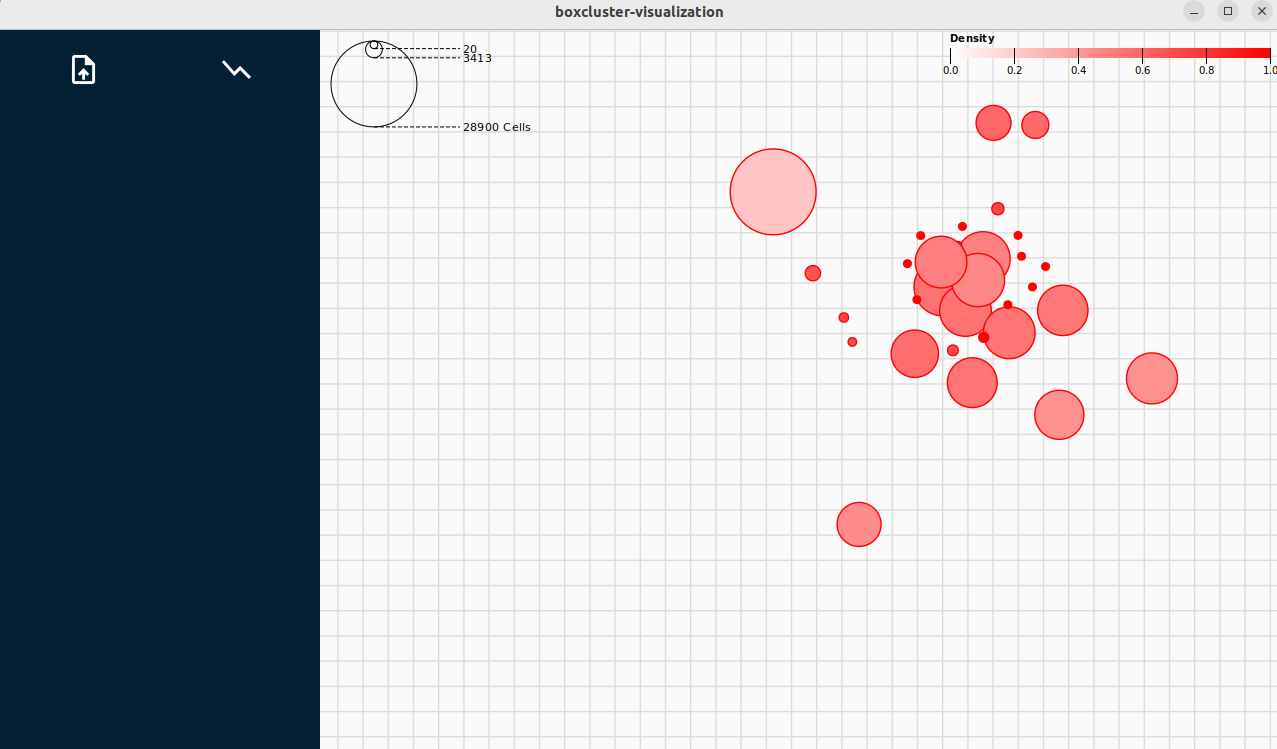
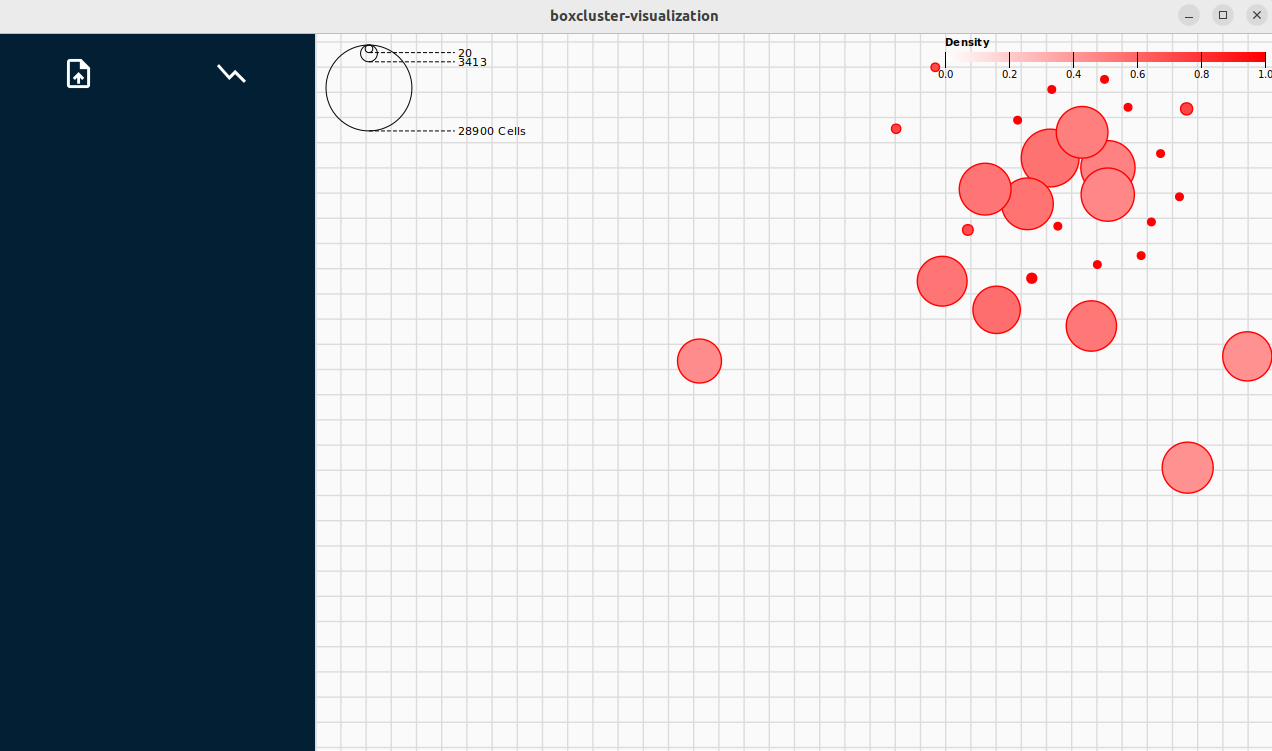
Changing scaling algorithm

diff --git a/src/app/components/visualization/svg-feature.module.ts b/src/app/components/visualization/svg-feature.module.ts
@@ -233,21 +233,22 @@ export class SvgFeatureModule {
   }
 
   private scalingFunction(datapoints: Array<DataPoint>) {
-    let x_max_module = Math.max(...datapoints.map(datapoint => Math.abs(datapoint.x)));
-    let y_max_module = Math.max(...datapoints.map(datapoint => Math.abs(datapoint.y)));
-    let max_module = Math.max(x_max_module, y_max_module);
+    // let x_max_module = Math.max(...datapoints.map(datapoint => Math.abs(datapoint.x)));
+    // let y_max_module = Math.max(...datapoints.map(datapoint => Math.abs(datapoint.y)));
+    // let max_module = Math.max(x_max_module, y_max_module);
 
     let scaled_datapoints: Array<DataPoint> = datapoints;
     let screen_coverage = 0.5;
+    // let screen_coverage = 0.8;
     datapoints.forEach(datapoint => {
-        let result_x = datapoint.x / x_max_module;
-        let result_y = datapoint.y / y_max_module;
+      //   let result_x = datapoint.x / x_max_module;
+      //   let result_y = datapoint.y / y_max_module;
 
-      if (isNaN(result_x) || !isFinite(result_x)) { result_x = datapoint.x; }
-      if (isNaN(result_y) || !isFinite(result_y)) { result_y = datapoint.y; }
+      // if (isNaN(result_x) || !isFinite(result_x)) { result_x = datapoint.x; }
+      // if (isNaN(result_y) || !isFinite(result_y)) { result_y = datapoint.y; }
 
-        datapoint.x = result_x / ((1-screen_coverage) + 1);
-        datapoint.y = result_y / ((1-screen_coverage) + 1);
+        datapoint.x = datapoint.x / ((1-screen_coverage) + 1);
+        datapoint.y = datapoint.y / ((1-screen_coverage) + 1);
     });
 
     return scaled_datapoints;

diff --git a/src-tauri/src/model/analysis/metrics/coordinates.rs b/src-tauri/src/model/analysis/metrics/coordinates.rs
@@ -245,6 +245,42 @@ impl Coordinates {
         return xys;
     }
 
+    fn scaleCoordinates(xys: &HashMap<u32, (f64, f64)>) -> HashMap<u32, (f64, f64)> {
+        let mut x_max = f64::MIN;
+        let mut x_min = f64::MAX;
+
+        let mut y_max = f64::MIN;
+        let mut y_min = f64::MAX;
+        for (_, (x, y)) in xys.iter() {
+            if x > &x_max { x_max = *x; }
+            if x < &x_min { x_min = *x; }
+
+            if y > &y_max { y_max = *y; }
+            if y < &y_min { y_min = *y; }
+        }
+
+        // let x_abs_max = x_max.abs().max(x_min.abs());
+        // let y_abs_max = y_max.abs().max(y_min.abs());
+
+        // let mut smallest_x_extreme = x_max.min(x_min.abs());
+        // let mut smallest_y_extreme = y_max.min(y_min.abs());
+
+        // let mut scaled_coordinates: HashMap<u32, (f64, f64)> = HashMap::new();
+        // for(identifier, (x, y)) in xys.iter() {
+        //     let mut x_scaled = *x;
+        //     let mut y_scaled = *y;
+        //     if x_abs_max != 0.0 { x_scaled = x / x_abs_max; }
+        //     if y_abs_max != 0.0 { y_scaled = y / &y_abs_max; }
+
+        //     let x_translation = (1.0 - smallest_x_extreme)/2.0;
+        //     let y_translation = (1.0 - y_abs_max)/2.0;
+
+        //     scaled_coordinates.insert(*identifier, (x_scaled, y_scaled));
+        // }
+
+        return scaled_coordinates;
+    }
+
     fn calculate<T: DistancesTrait>(distances: &T) -> Result<HashMap<u32, (f64, f64)>, GenericError> {
         if distances.get().len() == 0{ // Only one datapoint, no need to calculate MDS
             let mut xys = HashMap::new();
@@ -253,20 +289,19 @@ impl Coordinates {
         }
 
         println!("  Applying Multi Dimensional Scaling...");
-        dbg!(distances.get());
         let n: usize = distances.get().len();
         let dissimilarity_matrix: DMatrix<f64> = Coordinates::buildDissimilarityMatrix(distances, n)?;
         let dissimilarity_matrix: Array2<f64> = Array2::from_shape_vec((n, n), dissimilarity_matrix.data.as_vec().clone())
             .map_err(|_| GenericError::new("Error converting dissimilarity matrix to ndarray", file!(), &line!()))?;
         
-        // let xys: HashMap<u32, (f64, f64)> = Coordinates::mds(dissimilarity_matrix, 2)?;
-        let xys: HashMap<u32, (f64, f64)> = Coordinates::SMACOF(&dissimilarity_matrix, 2, 300, 1e-6, None);
+        let xys: HashMap<u32, (f64, f64)> = Coordinates::SMACOF(&dissimilarity_matrix, 2, 300, 1e-6, Some(42));
+        let scaled_xys: HashMap<u32, (f64, f64)> = Coordinates::scaleCoordinates(&xys);
 
         let mut visible_identifiers: Vec<u32> = distances.get().keys().cloned().collect();
         visible_identifiers.sort();
 
         let mut result: HashMap<u32, (f64, f64)> = HashMap::new();
-        for entry in xys.iter(){
+        for entry in scaled_xys.iter(){
             let i = entry.0;
             let identifier = visible_identifiers.get(*i as usize)
                 .ok_or(GenericError::new("Identifier not found", file!(), &line!()))?;
